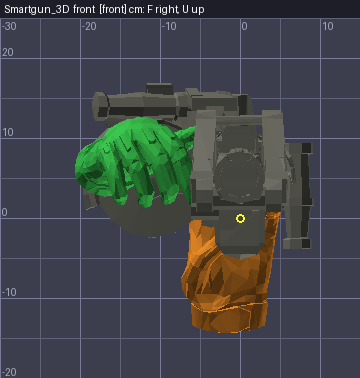
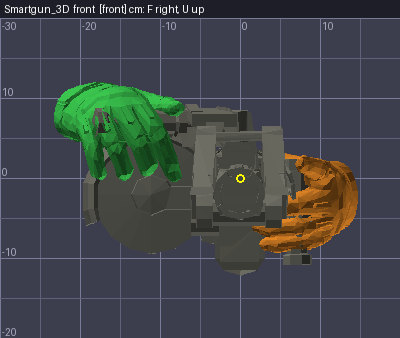
Smartgun hands by hand: main fist on the right vertical bar, support fist on the left handlebar (rows 8, 16)
tools/fit_smartgun.py places Ermac F (106, rot 0) on the vertical bar behind the drum and Ermac C (hand2 91,
roll 90, knuckles up) on the lateral handlebar; solves the hooks so each pose's grip point lands after the
rotation. Sheet in docs/renders/fit; hand_survey agrees. Written, not rig-verified.

Claude-Session: https://claude.ai/code/session_01Me4ZUpHGbJgk5u3b7yQJai

diff --git a/tools/fit_smartgun.py b/tools/fit_smartgun.py
@@ -1,0 +1,83 @@
+"""Smartgun hands, placed BY HAND from the owner's two holds (2026-11-08, headset recordings, see
+RS_ModelSwapper cards/aliens/m56/ae_m56.card OWNER note and the 22:30 screenshot):
+
+  main hand  = the VERTICAL BAR on the RIGHT side of the receiver, just behind the drum, halfway up
+               (model x -2..2, y -9.7..-6, z -11..+3; the round knob on top is what the owner boxed).
+               Ermac pose F (hand.md3 106, the plasma-rifle fist), no rotation.
+  support    = the HORIZONTAL HANDLEBAR sticking out LEFT, forward of the drum (model x 29..34,
+               y 12..20, z 8..12). Ermac pose C (hand2.md3 91, fist on a vertical grip) ROLLED 90 deg
+               so the bar runs through the fist laterally: knuckles up, thumb inboard, forearm from
+               the left-rear. Roll -90 put the fist under the bar palm-up (rejected, looked at).
+  The rear pistol grip with the trigger surface is UNUSED (owner).
+
+The hooks are solved so each pose's grip point (tools/kit/gripregions.json 'point') lands on the
+target after the rotation (RenderHUDModel rotates about the controller origin AFTER adding the hook,
+hudrender.to_local). Rows 8 (Smartgun_3D) and 16 (YutaniSmartgun_3D, same mesh). The dual-wield bake
+(MODELDEF.aemain/.aedual) is untouched: the smartgun has no dual blocks.
+
+    RSQ_TOOLS=../rs_modelswapper/tools RSQ_ERMAC=../rsq_rustedlegacy/src/models python3 tools/fit_smartgun.py [--write]
+"""
+import os, sys, re, json
+import numpy as np
+
+sys.path.insert(0, os.path.dirname(os.path.abspath(__file__)))
+import fit_hands_cards as F  # noqa: E402  (kit on sys.path, table(), HAND_PL, hook())
+import gunview, hudrender  # noqa: E402
+from PIL import Image  # noqa: E402
+
+ROWS = (8, 16)
+GUN_AT, GUN_ROT, GUN_FRAME = (0.0, -7.3, -4.5), (0, 0, 0), 106        # F L U cm; (yaw, pitch, roll) deg
+SUP_AT, SUP_ROT, SUP_FRAME = (28.5, 13.0, 5.2), (0, 0, 90), 91
+REGIONS = json.load(open(os.path.join(F.TOOLS, 'kit', 'gripregions.json')))['poses']
+
+
+def hand_flu(path, fr, hook, rot):
+    it = dict(path=path, frame=fr, hook=list(hook), rot=list(rot), **F.HAND_PL)
+    return np.vstack([gunview.to_fl(hudrender.to_local(raw, it)) for tris, raw in gunview.item_mesh(it)])
+
+
+def solve_hook(path, fr, key, target, rot):
+    """the hook that lands the pose's grip point on target (FLU) under this rotation"""
+    V0 = hand_flu(path, fr, (0, 0, 0), (0, 0, 0)); g = np.array(REGIONS[key]['point'])
+    near = np.argsort(np.linalg.norm(V0 - g, axis=1))[:30]
+    c = hand_flu(path, fr, (0, 0, 0), rot)[near].mean(0)
+    J = np.stack([hand_flu(path, fr, e, rot)[near].mean(0) - c for e in np.eye(3)], 1)
+    return tuple(float(v) for v in np.round(np.linalg.solve(J, np.asarray(target) - c), 3))
+
+
+def set_vec(s, fn, i, v):
+    m = re.search(r'(static Vector3 %s\(int i\)\s*\{)(.*?)(\n\t\})' % fn, s, re.S); body = m.group(2)
+    for ax, val in zip('xyz', v):
+        am = re.search(r'(static const double %s\[\] = \{)([^}]*)(\})' % ax, body); vals = [x.strip() for x in am.group(2).replace('\n', ' ').split(',')]
+        vals[i] = '%.3f' % val; body = body[:am.start(2)] + ' ' + ', '.join(vals) + ' ' + body[am.end(2):]
+    return s[:m.start(2)] + body + s[m.end(2):]
+
+
+def main():
+    ermac = os.environ.get('RSQ_ERMAC') or sys.exit('set RSQ_ERMAC (hand/hand.md3 + hand2.md3: Ermac\'s full hands)')
+    hp, sp = os.path.join(ermac, 'hand', 'hand.md3'), os.path.join(ermac, 'hand', 'hand2.md3')
+    gh = solve_hook(hp, GUN_FRAME, 'hand:%d' % GUN_FRAME, GUN_AT, GUN_ROT)
+    sh = solve_hook(sp, SUP_FRAME, 'hand2:%d' % SUP_FRAME, SUP_AT, SUP_ROT)
+    print('GunHook %s GunRot %s  SupportHook %s SupportRot %s' % (gh, GUN_ROT, sh, SUP_ROT))
+    # sheet
+    b = F.gun_block('Smartgun_3D')
+    gi = dict(path=F.real_path(os.path.join(b['path'], b['model'])), frame=0, scale=b['scale'], off=b['off'], color=[150, 155, 170])
+    hands = [dict(path=hp, frame=GUN_FRAME, hook=list(gh), rot=list(GUN_ROT), color=[225, 170, 135], **F.HAND_PL),
+             dict(path=sp, frame=SUP_FRAME, hook=list(sh), rot=list(SUP_ROT), color=[120, 200, 140], **F.HAND_PL)]
+    marks = [(*GUN_AT, 'main', (255, 200, 60)), (*SUP_AT, 'support', (120, 230, 140))]
+    out = os.path.join(F.ROOT, 'docs', 'renders', 'fit'); os.makedirs(out, exist_ok=True); row = []
+    for k, r in (('side', (-30, 50, -30, 20)), ('top', (-30, 50, -30, 30)), ('front', (-30, 20, -30, 20))):
+        o = os.path.join(out, '_sg_%s.png' % k); gunview.view([gi] + hands, o, k, rng=r, px=9, marks=marks, title='Smartgun_3D (by hand, fit_smartgun.py)'); row.append(Image.open(o)); os.remove(o)
+    R = Image.new('RGB', (row[0].width + row[2].width, row[0].height + row[1].height), (40, 44, 60))
+    R.paste(row[0], (0, 0)); R.paste(row[1], (0, row[0].height)); R.paste(row[2], (row[0].width, 0))
+    sheet = os.path.join(out, 'Smartgun_3D.cards.png'); R.save(sheet); print('sheet', os.path.relpath(sheet, F.ROOT))
+    if '--write' in sys.argv:
+        s, idx, T = F.table()
+        for i in ROWS:
+            s = set_vec(s, 'GunHook', i, gh); s = set_vec(s, 'GunRot', i, GUN_ROT); s = set_vec(s, 'SupportHook', i, sh); s = set_vec(s, 'SupportRot', i, SUP_ROT)
+        open(os.path.join(F.ROOT, 'zscript', 'rsq', 'handtable.zs'), 'w', encoding='utf-8').write(s)
+        print('-> handtable.zs rows %s written' % (ROWS,))
+
+
+if __name__ == '__main__':
+    main()

diff --git a/docs/HANDOFF_2026-11-08_hands_from_cards.md b/docs/HANDOFF_2026-11-08_hands_from_cards.md
@@ -26,3 +26,12 @@ secondary fire (owner: "ideally we can pump the secondary fire"): the support ha
 card has its 14.2 cm stroke; same shape as the shotgun pump reload. The smartgun (owner 21:03: "off hand grip is a
 bicycle handlebar halfway up on left side, main hand grip is a vertical cylinder on the right side about half way up").
 Re-run: `RSQ_TOOLS=... RSQ_ERMAC=... python3 -B tools/fit_hands_cards.py --write` -- never hand-edit the table again.
+
+## 22:30 Smartgun, by hand (`tools/fit_smartgun.py`)
+Rows 8 and 16. The shipped row had the gun hand on the far rear bar (F -55) and the support above-right of the drum.
+Owner (22:30 screenshot, boxed the knob): the main hand is the VERTICAL BAR on the right side of the receiver behind the
+drum; the support is the handlebar out to the left, forward of the drum. Main = Ermac F (106) at (F 0, L -7.3, U -4.5),
+rot 0: GunHook (-4.950, 2.239, -1.328). Support = Ermac C (hand2 91) at (F 28.5, L 13, U 5.2), SupportRot (0,0,90) so the
+bar runs through the fist knuckles-up (roll -90 was looked at: fist under the bar, palm up, rejected): SupportHook
+(9.561, -14.484, -0.920). `tools/hand_survey.py Smartgun_3D` (live table, independent chain) matches the fitter's
+sheet `docs/renders/fit/Smartgun_3D.cards.png`. Written, not rig-verified. Dual blocks untouched (none for smartguns).
